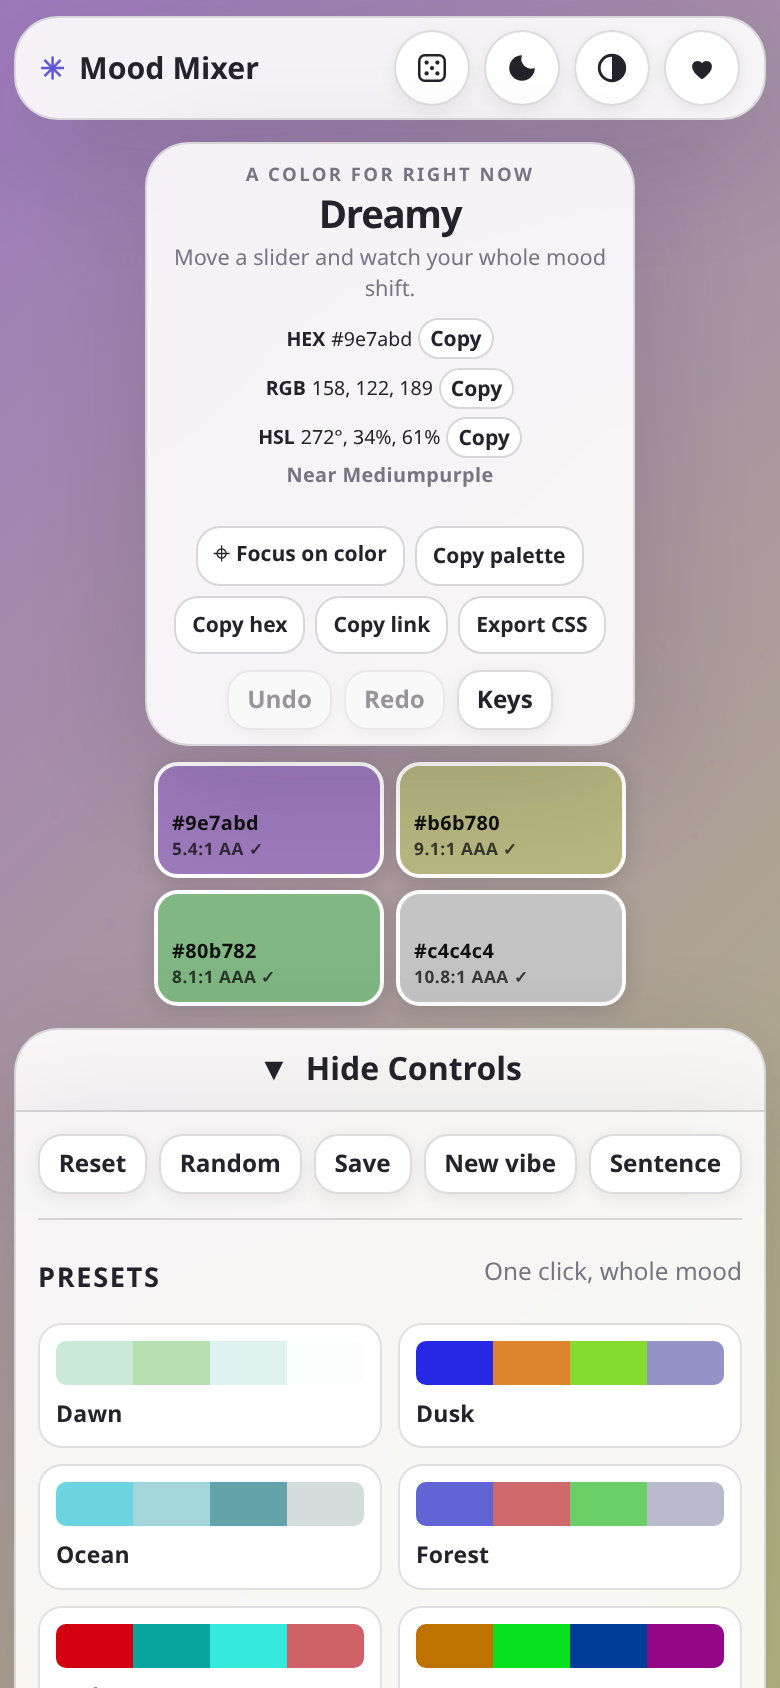
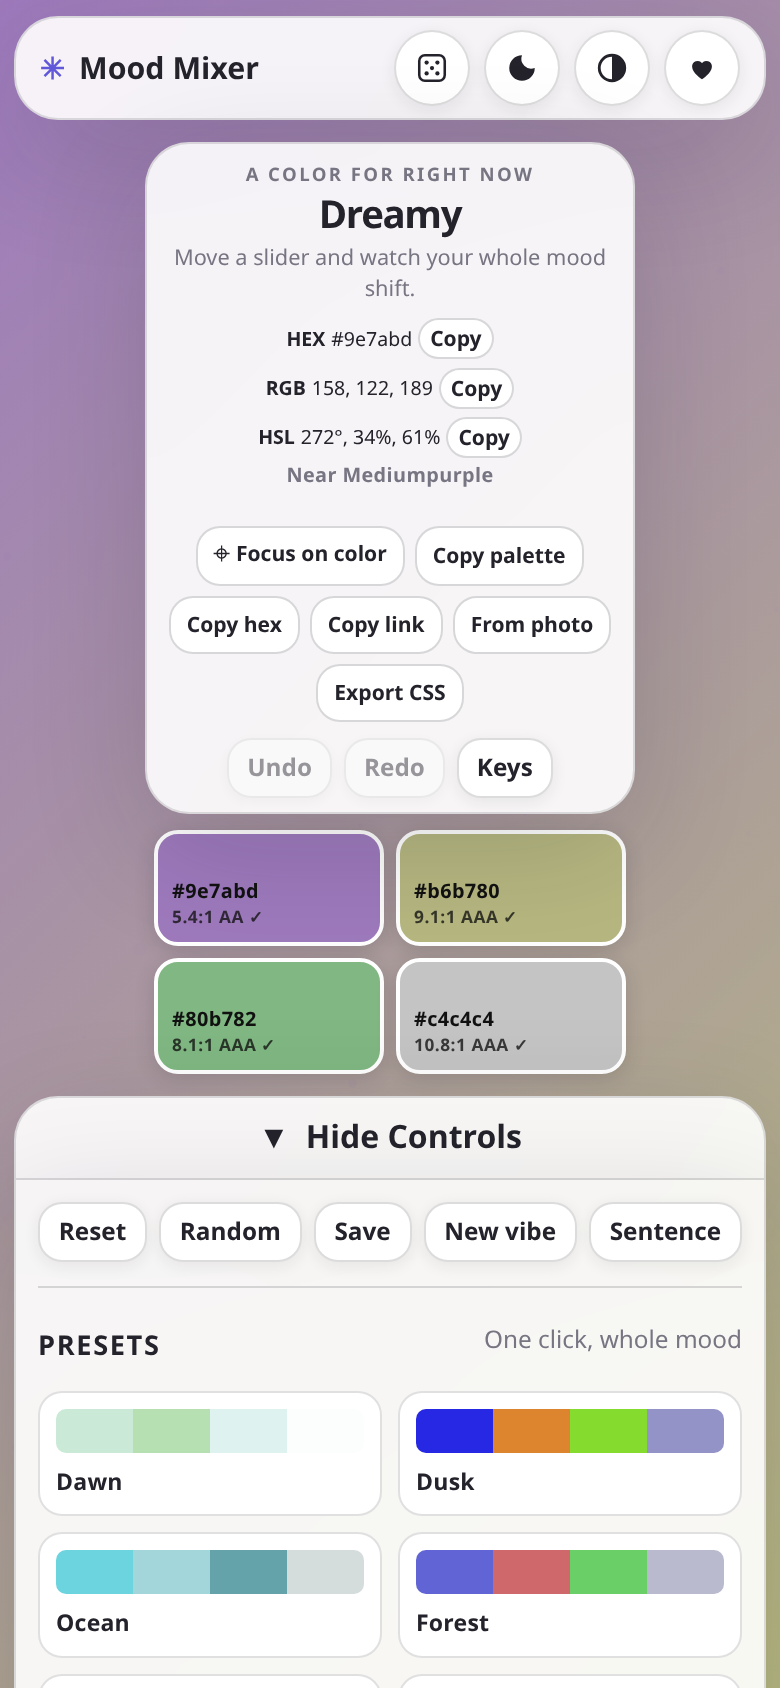
Batch 12: photo seeding, folder rename, compare SVG, self-test in the footer
- Hero 'From photo' button seeds the sliders from a dominant colour without opening the panel
- Rename folder rewrites every mood filed under the active folder
- Comparison saves as an SVG sheet
- Footer links to the offline self-test, which now reads the asset version from the mixer page
- Asset version 2.12.0

Changed region(s): [[0.0, 0.3389, 0.9846, 1.0], [0.2154, 0.3389, 0.3077, 0.4005]]

diff --git a/script.js b/script.js
@@ -472,6 +472,8 @@
   function renderFolderChips() {
     const chips = byId('folderChips');
     if (!chips) return;
+    const rename = byId('renameFolderBtn');
+    if (rename) rename.hidden = state.folderFilter === 'All';
     const counts = new Map();
     state.saved.forEach((mood) => {
       const key = folderOf(mood);
@@ -904,6 +906,20 @@
 
   /* ---------- image palette ---------- */
 
+  function matchSlidersTo(hex) {
+    const rgb = C.hexToRgb(hex);
+    if (!rgb) return false;
+    const hsl = C.rgbToHsl(rgb.r, rgb.g, rgb.b);
+    commitUndo();
+    state.values.energy = Math.round(C.clamp((hsl.h - (hsl.s * 0.5) / 3.6) / 3.6, 0, 100));
+    state.values.sparkle = Math.round(C.clamp((hsl.s - 40) / 0.6, 0, 100));
+    state.values.calmness = Math.round(C.clamp((hsl.l - 20) / 0.7, 0, 100));
+    vibePinned = false;
+    buildSliders();
+    updateMood();
+    return true;
+  }
+
   function imageToPalette(file) {
     const url = URL.createObjectURL(file);
     const image = new Image();
@@ -960,18 +976,7 @@
     use.type = 'button';
     use.className = 'btn btn-sm';
     use.textContent = 'Match sliders to the first colour';
-    use.addEventListener('click', () => {
-      const rgb = C.hexToRgb(colors[0]);
-      if (!rgb) return;
-      const hsl = C.rgbToHsl(rgb.r, rgb.g, rgb.b);
-      commitUndo();
-      state.values.energy = Math.round(C.clamp((hsl.h - hsl.s * 0.5 / 3.6) / 3.6, 0, 100));
-      state.values.sparkle = Math.round(C.clamp((hsl.s - 40) / 0.6, 0, 100));
-      state.values.calmness = Math.round(C.clamp((hsl.l - 20) / 0.7, 0, 100));
-      vibePinned = false;
-      buildSliders();
-      updateMood();
-    });
+    use.addEventListener('click', () => matchSlidersTo(colors[0]));
     container.appendChild(use);
   }
 
@@ -1550,6 +1555,42 @@
     dialog.showModal();
   }
 
+  function compareSheet() {
+    const collection = compareBase;
+    if (!collection) return null;
+    const columns = [['Current', activePalette()], [collection.name || 'Saved', collection.palette || []]];
+    if (compareSecondId) {
+      const second = state.collections.find((item) => item.id === compareSecondId);
+      if (second) columns.push([second.name || 'Palette', second.palette || []]);
+    }
+    const colWidth = 260;
+    const width = 96 + colWidth * columns.length;
+    const height = 300;
+    const body = columns.map(([label, palette], columnIndex) => {
+      const x = 48 + columnIndex * colWidth;
+      const chips = palette.map((hex, index) => {
+        const rgb = C.hexToRgb(hex);
+        const ink = rgb ? C.bestInk(rgb) : null;
+        const grade = ink ? C.grade(ink.ratio) : null;
+        const y = 120 + index * 40;
+        return `<rect x="${x}" y="${y}" width="42" height="30" rx="6" fill="${hex}" stroke="#e2e0da"/>
+      <text x="${x + 52}" y="${y + 14}" font-family="system-ui, sans-serif" font-size="12" fill="#24232b">${hex}</text>
+      <text x="${x + 52}" y="${y + 27}" font-family="system-ui, sans-serif" font-size="10" fill="#777582">${ink ? ink.ratio.toFixed(1) + ':1 ' + grade.level : ''}</text>`;
+      }).join('\n      ');
+      return `<text x="${x}" y="96" font-family="system-ui, sans-serif" font-size="14" font-weight="700" fill="#24232b">${label}</text>
+      ${chips}`;
+    }).join('\n    ');
+
+    return `<?xml version="1.0" encoding="UTF-8"?>
+<svg xmlns="http://www.w3.org/2000/svg" width="${width}" height="${height}" viewBox="0 0 ${width} ${height}" role="img" aria-label="Mood Mixer palette comparison">
+  <rect width="${width}" height="${height}" fill="#f5f4f1"/>
+  <text x="48" y="46" font-family="system-ui, sans-serif" font-size="20" font-weight="700" fill="#24232b">Palette comparison</text>
+  <text x="48" y="68" font-family="system-ui, sans-serif" font-size="12" fill="#777582">${new Date().toISOString().slice(0, 10)}</text>
+  ${body}
+  <text x="48" y="${height - 20}" font-family="system-ui, sans-serif" font-size="11" fill="#777582">Mood Mixer · drsamonline.github.io/mood-mixer</text>
+</svg>`;
+  }
+
   function printHistory() {
     const sheet = byId('printSheet');
     if (!sheet) return;
@@ -1830,6 +1871,50 @@
 
     on('copyPaletteBtn', 'click', () => copyText(activePalette().join(', '), 'Four-color palette copied'));
     on('copyHexBtn', 'click', () => copyText(C.toHex(current), `${C.toHex(current)} copied`));
+    on('seedPhotoBtn', 'click', () => byId('seedPhotoInput')?.click());
+
+    on('seedPhotoInput', 'change', (event) => {
+      const file = event.target.files?.[0];
+      event.target.value = '';
+      if (!file) return;
+      const url = URL.createObjectURL(file);
+      const image = new Image();
+      image.onload = () => {
+        const size = 48;
+        const canvas = document.createElement('canvas');
+        canvas.width = size;
+        canvas.height = size;
+        const ctx = canvas.getContext('2d', { willReadFrequently: true });
+        ctx.drawImage(image, 0, 0, size, size);
+        URL.revokeObjectURL(url);
+        let data = null;
+        try {
+          data = ctx.getImageData(0, 0, size, size).data;
+        } catch (error) {
+          data = null;
+        }
+        if (!data) {
+          announce('That image could not be read');
+          return;
+        }
+        const pixels = [];
+        for (let i = 0; i < data.length; i += 4) {
+          pixels.push({ r: data[i], g: data[i + 1], b: data[i + 2], a: data[i + 3] });
+        }
+        const colors = C.dominant(pixels, 3);
+        if (!colors.length) {
+          announce('No colours found in that image');
+          return;
+        }
+        if (matchSlidersTo(colors[0])) announce(`Seeded from the photo: ${colors[0]}`);
+      };
+      image.onerror = () => {
+        URL.revokeObjectURL(url);
+        announce('That file is not an image the browser can read');
+      };
+      image.src = url;
+    });
+
     on('copyLinkBtn', 'click', async () => {
       const url = shareUrl();
       if (navigator.share) {
@@ -2061,6 +2146,30 @@
       collections: state.collections
     }, null, 2), 'application/json'));
 
+    on('renameFolderBtn', 'click', () => {
+      if (state.folderFilter === 'All') {
+        announce('Pick a folder first');
+        return;
+      }
+      const from = state.folderFilter;
+      const next = window.prompt(`Rename the folder "${from}" to:`, from);
+      if (next === null) return;
+      const to = next.trim();
+      if (!to || to === from) return;
+      let moved = 0;
+      state.saved.forEach((mood) => {
+        if (folderOf(mood) === from) {
+          mood.folder = to;
+          moved += 1;
+        }
+      });
+      state.folderFilter = to;
+      state.lastFolder = to;
+      renderSaved();
+      persistNow();
+      announce(`${moved} mood${moved === 1 ? '' : 's'} moved to ${to}`);
+    });
+
     on('restoreDeleteBtn', 'click', () => {
       if (!deletedBuffer) return;
       state.saved = deletedBuffer.concat(state.saved).slice(0, MAX_SAVED);
@@ -2134,6 +2243,11 @@
     });
 
     on('compareCloseBtn', 'click', () => byId('compareDialog')?.close());
+
+    on('compareSaveBtn', 'click', () => {
+      const svg = compareSheet();
+      if (svg) download('mood-mixer-compare.svg', svg, 'image/svg+xml');
+    });
 
     on('compareSecond', 'change', (event) => {
       compareSecondId = event.target.value;

diff --git a/mixer/index.html b/mixer/index.html
@@ -10,15 +10,15 @@
   <meta name="color-scheme" content="light dark">
   <link rel="icon" href="../favicon.svg" type="image/svg+xml">
   <link rel="apple-touch-icon" href="../icons/apple-touch-icon.png">
-  <link rel="manifest" href="../manifest.json?v=2.11.0">
+  <link rel="manifest" href="../manifest.json?v=2.12.0">
   <meta property="og:type" content="website">
   <meta property="og:title" content="Mood Mixer — live color playground">
   <meta property="og:description" content="Sliders in, palettes out. Copy hex, check contrast, export CSS, JSON, Tailwind or PNG.">
   <meta property="og:image" content="https://drsamonline.github.io/mood-mixer/screenshots/mixer.png">
   <meta name="twitter:card" content="summary_large_image">
   <meta name="twitter:image" content="https://drsamonline.github.io/mood-mixer/screenshots/mixer.png">
-  <link rel="stylesheet" href="../theme.css?v=2.11.0">
-  <link rel="stylesheet" href="../style.css?v=2.11.0">
+  <link rel="stylesheet" href="../theme.css?v=2.12.0">
+  <link rel="stylesheet" href="../style.css?v=2.12.0">
 </head>
 
 <body>
@@ -90,6 +90,8 @@
           <button id="copyPaletteBtn" class="focus-mode-btn" type="button">Copy palette</button>
           <button id="copyHexBtn" class="focus-mode-btn" type="button">Copy hex</button>
           <button id="copyLinkBtn" class="focus-mode-btn" type="button" title="Copy a link to this exact palette">Copy link</button>
+          <button id="seedPhotoBtn" class="focus-mode-btn" type="button" title="Start from a photo">From photo</button>
+          <input type="file" id="seedPhotoInput" accept="image/*" hidden>
           <button id="exportCssBtn" class="focus-mode-btn" type="button">Export CSS</button>
         </div>
 
@@ -317,7 +319,10 @@
             <button id="bulkMove" class="btn btn-sm" type="button">Move</button>
             <button id="bulkDelete" class="btn btn-sm" type="button">Delete</button>
           </div>
-          <div id="folderChips" class="folder-chips" aria-label="Saved mood folders"></div>
+          <div class="folder-row">
+            <div id="folderChips" class="folder-chips" aria-label="Saved mood folders"></div>
+            <button id="renameFolderBtn" class="btn btn-sm" type="button" hidden title="Rename the active folder">Rename folder</button>
+          </div>
           <div id="savedMoodsContainer" class="saved-moods"></div>
         </section>
       </div>
@@ -347,6 +352,8 @@
       <span aria-hidden="true">&middot;</span>
       <a href="https://github.com/drsamonline/mood-mixer/blob/main/LICENSE">MIT</a>
       <span aria-hidden="true">&middot;</span>
+      <a href="../selftest.html">Offline self-test</a>
+      <span aria-hidden="true">&middot;</span>
       <span>Everything stays in your browser.</span>
     </footer>
   </div>
@@ -371,6 +378,7 @@
     </label>
     <div id="compareBody" class="compare-body"></div>
     <div class="dialog-actions">
+      <button id="compareSaveBtn" class="btn btn-sm" type="button">Save SVG</button>
       <button id="compareCloseBtn" class="btn btn-sm" type="button">Close</button>
     </div>
   </dialog>
@@ -403,8 +411,8 @@
     </form>
   </dialog>
 
-  <script src="../color-core.js?v=2.11.0"></script>
-  <script src="../script.js?v=2.11.0"></script>
+  <script src="../color-core.js?v=2.12.0"></script>
+  <script src="../script.js?v=2.12.0"></script>
 </body>
 
 </html>

diff --git a/selftest.html b/selftest.html
@@ -147,19 +147,25 @@
   <button id="again" type="button">Run again</button>
 
   <script>
-    const FILES = [
+    /* The asset version is read from the mixer page so this list cannot drift. */
+    async function assetVersion() {
+      try {
+        const response = await fetch('./mixer/index.html', { cache: 'no-store' });
+        const text = await response.text();
+        const match = text.match(/\?v=([0-9.]+)/);
+        if (match) return match[1];
+      } catch (error) {
+        // fall through
+      }
+      return '2.12.0';
+    }
+
+    const BASE_FILES = [
       './',
       './index.html',
       './404.html',
       './mixer/',
       './mixer/index.html',
-      './theme.css?v=2.11.0',
-      './landing.css?v=2.11.0',
-      './style.css?v=2.11.0',
-      './color-core.js?v=2.11.0',
-      './landing.js?v=2.11.0',
-      './script.js?v=2.11.0',
-      './manifest.json?v=2.11.0',
       './favicon.svg',
       './icons/icon-192.png',
       './icons/icon-512.png',
@@ -189,6 +195,13 @@
       } else {
         swState.textContent = 'service worker: unsupported';
       }
+
+      const version = await assetVersion();
+      const versioned = [
+        './theme.css', './landing.css', './style.css', './color-core.js',
+        './landing.js', './script.js', './manifest.json'
+      ].map((file) => `${file}?v=${version}`);
+      const FILES = BASE_FILES.slice(0, 6).concat(versioned, BASE_FILES.slice(6));
 
       const cacheKeys = await caches.keys();
       const cacheName = cacheKeys.find((key) => key.startsWith('mood-mixer-'));

diff --git a/index.html b/index.html
@@ -20,8 +20,8 @@
   <meta name="twitter:title" content="Mood Mixer — find the color for right now">
   <meta name="twitter:description" content="A private, offline-ready color playground. Sliders in, palettes out.">
   <meta name="twitter:image" content="https://drsamonline.github.io/mood-mixer/screenshots/landing.png">
-  <link rel="stylesheet" href="theme.css?v=2.11.0">
-  <link rel="stylesheet" href="landing.css?v=2.11.0">
+  <link rel="stylesheet" href="theme.css?v=2.12.0">
+  <link rel="stylesheet" href="landing.css?v=2.12.0">
 </head>
 
 <body>
@@ -198,8 +198,8 @@
     </footer>
   </div>
 
-  <script src="color-core.js?v=2.11.0"></script>
-  <script src="landing.js?v=2.11.0"></script>
+  <script src="color-core.js?v=2.12.0"></script>
+  <script src="landing.js?v=2.12.0"></script>
 </body>
 
 </html>

diff --git a/style.css b/style.css
@@ -1791,3 +1791,16 @@ body.focus-locked {
 .compare-body {
   grid-template-columns: repeat(auto-fit, minmax(140px, 1fr));
 }
+
+/* ---------- folder row ---------- */
+.folder-row {
+  display: flex;
+  align-items: center;
+  flex-wrap: wrap;
+  gap: 6px;
+  margin-bottom: 10px;
+}
+
+.folder-row .folder-chips {
+  margin-bottom: 0;
+}

diff --git a/service-worker.js b/service-worker.js
@@ -4,7 +4,7 @@
  */
 const CACHE_VERSION = 'v11';
 const CACHE_NAME = `mood-mixer-${CACHE_VERSION}`;
-const ASSET_VERSION = '2.11.0';
+const ASSET_VERSION = '2.12.0';
 
 const PRECACHE = [
   './',

diff --git a/README.md b/README.md
@@ -83,13 +83,15 @@ All captures are real renders of this repository, taken at 1440×900, 1440×1000
 - **Exports.** Copy hex, copy the palette, copy it as a text list, or download CSS variables, JSON, a Tailwind config or a 1200×630 PNG card.
 - **Shareable links.** The whole state packs into a six-character code — `#p=1in8hx` — carried in the URL hash; a Copy link button puts the full link on the clipboard. Longer query-style links from earlier versions still open.
 - **Vision check.** The current palette shown as deuteranopia, protanopia and tritanopia see it, beside normal vision.
+- **Seed from a photo.** A `From photo` button in the hero reads the dominant colour of a dropped image and moves the sliders to match, without opening the panel.
 - **From an image.** Drop a photo or pick a file: five dominant colours are read in the browser, copyable one by one, or matched back to the sliders. Nothing is uploaded.
 - **Collections.** Save the four colours as a named palette, restore it with every setting, pin it, copy it, share it as a link, delete it. Collections travel in the JSON backup.
 - **Pinned palettes.** A collection can be pinned, and a pinned palette travels as `#q=7ec8e3-4a90d9-1f2c3d-ffffff` — the exact four colours, not a re-derivation. Moving a slider releases the pin.
 - **SVG sheet.** A printable, self-contained SVG with every colour's hex, RGB, HSL and contrast against white and black — or the same sheet rasterised to a 2× PNG for posting.
-- **Palette compare.** Put a saved palette beside the current one — or two beside it — colour by colour, with contrast grades and a ▲ on whichever colour wins at each position.
+- **Palette compare.** Put a saved palette beside the current one — or two beside it — colour by colour, with contrast grades and a ▲ on whichever colour wins at each position; the comparison saves as an SVG.
 - **Naming that suggests.** Saving opens a small dialog pre-filled with `<vibe> · <harmony>`, plus two alternatives built from the nearest colour name.
 - **Quiet mode.** One switch stops every status announcement — for screen recording or a still screen.
+- **Folder rename.** With a folder selected, `Rename folder` rewrites every mood filed there in one step.
 - **Folder memory.** Saves land in the folder you last used, so filing needs no extra prompt.
 - **Long press for focus.** Hold anywhere that is not a control for half a second and the screen becomes the colour.
 - **Offline badge.** A quiet pill appears only when the network drops: "Offline · still working".
